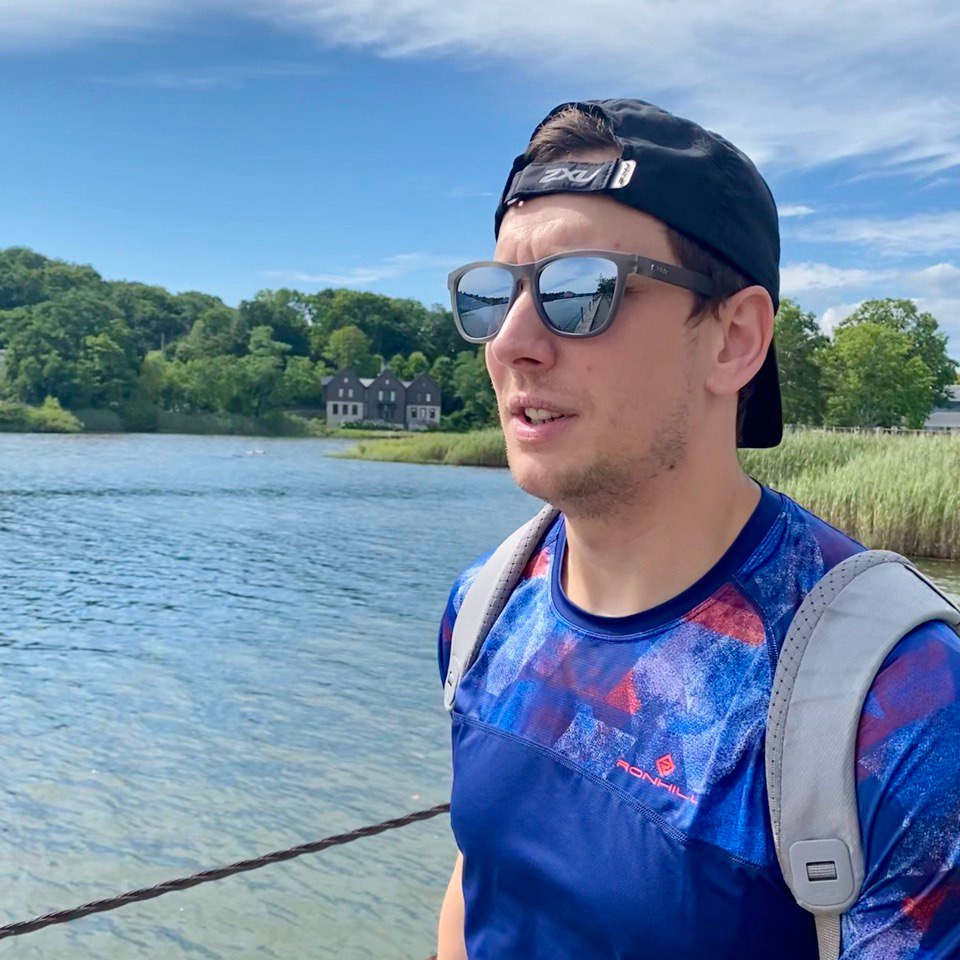
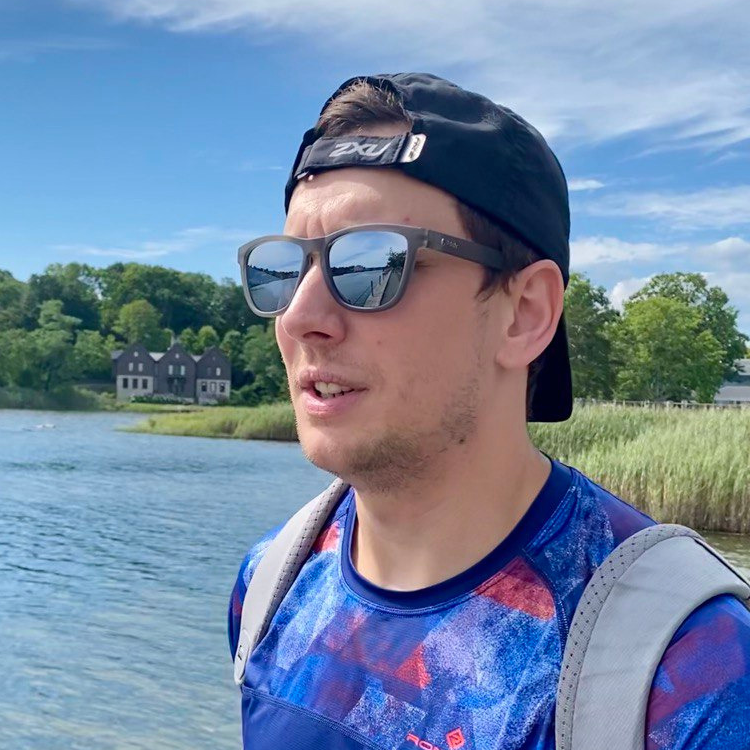
update profile image, fixed Contact form layout

diff --git a/components/Contact.js b/components/Contact.js
@@ -8,14 +8,17 @@ export default function Contact() {
 			</h3>
 			<div className="relative rounded-md mb-10">
 				<div className="flex flex-col md:flex-row md:items-center md:justify-between md:gap-8">
-					<form className="flex flex-col  w-[20rem] mx-auto py-4 px-2 border rounded-md  border-gray-300 bg-white dark:bg-gray-800 dark:border-gray-700 md:flex-1 md:basis-1/2">
+					<form
+						action="https://formsubmit.co/45253232dac18859338cf10293e893fc"
+						method="post"
+						className="flex flex-col  w-[20rem] mx-auto py-4 px-2 border rounded-md  border-gray-300 bg-white dark:bg-gray-800 dark:border-gray-700 md:flex-1 md:basis-1/2">
 						<label htmlFor="name" className="text-sm  mx-4">
 							{' '}
 							Your Name
 						</label>
 						<input
 							type="text"
-							className=" rounded-md border focus:outline-none py-2 mt-2 px-1 mx-4 dark:bg-gray-800 dark:border-gray-700 focus:ring-2 focus:border-none ring-blue-500 dark:ring-blue-400"
+							className="py-2 mt-2 px-1 mx-4 rounded-md border-2 focus:outline-none dark:bg-gray-800 dark:border-gray-700 focus:border-2 focus:border-blue-500 dark:focus:border-blue-400"
 							name="name"
 						/>
 						<label htmlFor="email" className="text-sm  mx-4 mt-4">
@@ -23,7 +26,7 @@ export default function Contact() {
 						</label>
 						<input
 							type="text"
-							className=" rounded-md border focus:outline-none py-2 mt-2 px-1 mx-4 dark:bg-gray-800 dark:border-gray-700 focus:ring-2 focus:border-none ring-blue-500 dark:ring-blue-400"
+							className="py-2 mt-2 px-1 mx-4 rounded-md border-2 focus:outline-none dark:bg-gray-800 dark:border-gray-700 focus:border-2 focus:border-blue-500 dark:focus:border-blue-400"
 							name="email"
 						/>
 						<label htmlFor="message" className="text-sm  mx-4 mt-4">
@@ -32,7 +35,7 @@ export default function Contact() {
 						<textarea
 							rows="4"
 							type="text"
-							className=" rounded-md border focus:outline-none py-2 mt-2 px-1 mx-4 dark:bg-gray-800 dark:border-gray-700 focus:ring-2 focus:border-none ring-blue-500 dark:ring-blue-400"
+							className="py-2 mt-2 px-1 mx-4 rounded-md border-2 focus:outline-none dark:bg-gray-800 dark:border-gray-700 focus:border-2 focus:border-blue-500 dark:focus:border-blue-400"
 							name="message"></textarea>
 						<button
 							type="submit"

diff --git a/components/Hero.js b/components/Hero.js
@@ -7,16 +7,16 @@ export default function Hero() {
 	return (
 		<section className="min-w-full mb-20">
 			<div className="text-center py-5 mb-5 md:flex">
-				<div className="mx-auto mb-5 rounded-full md:basis-1/3 md:order-2">
+				<div className="mx-auto bg-transparent md:mx-12  md:order-2">
 					<Image
 						src={data.profile}
 						alt={data.name}
-						height={240}
-						width={240}
+						height={250}
+						width={250}
 						className="rounded-full"
 					/>
 				</div>
-				<div className=" flex-1 md:text-start md:basis-1/2 md:mr-10">
+				<div className=" flex-1 md:text-start md:mr-10">
 					<h1 className="text-5xl py-2 font-bold lg:text-6xl">
 						{data.name}
 					</h1>
